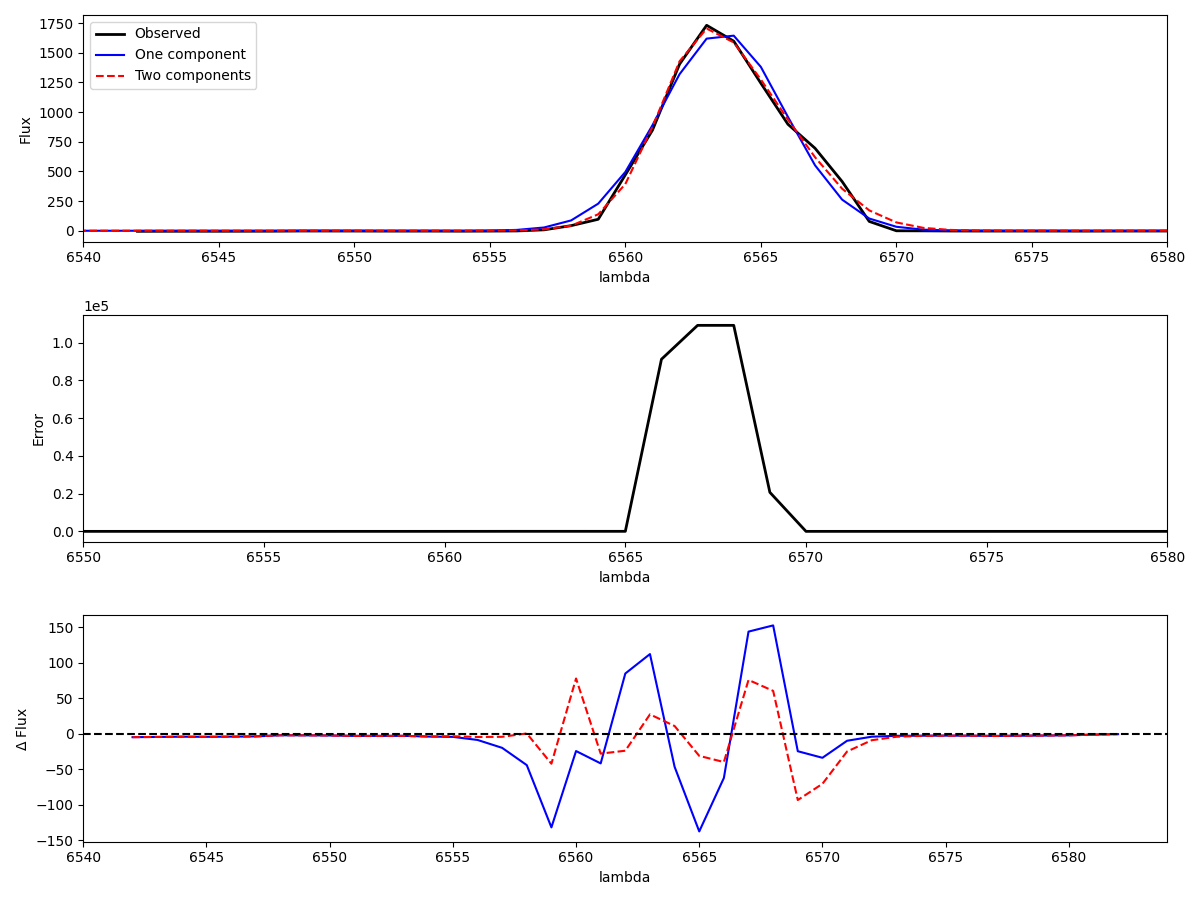
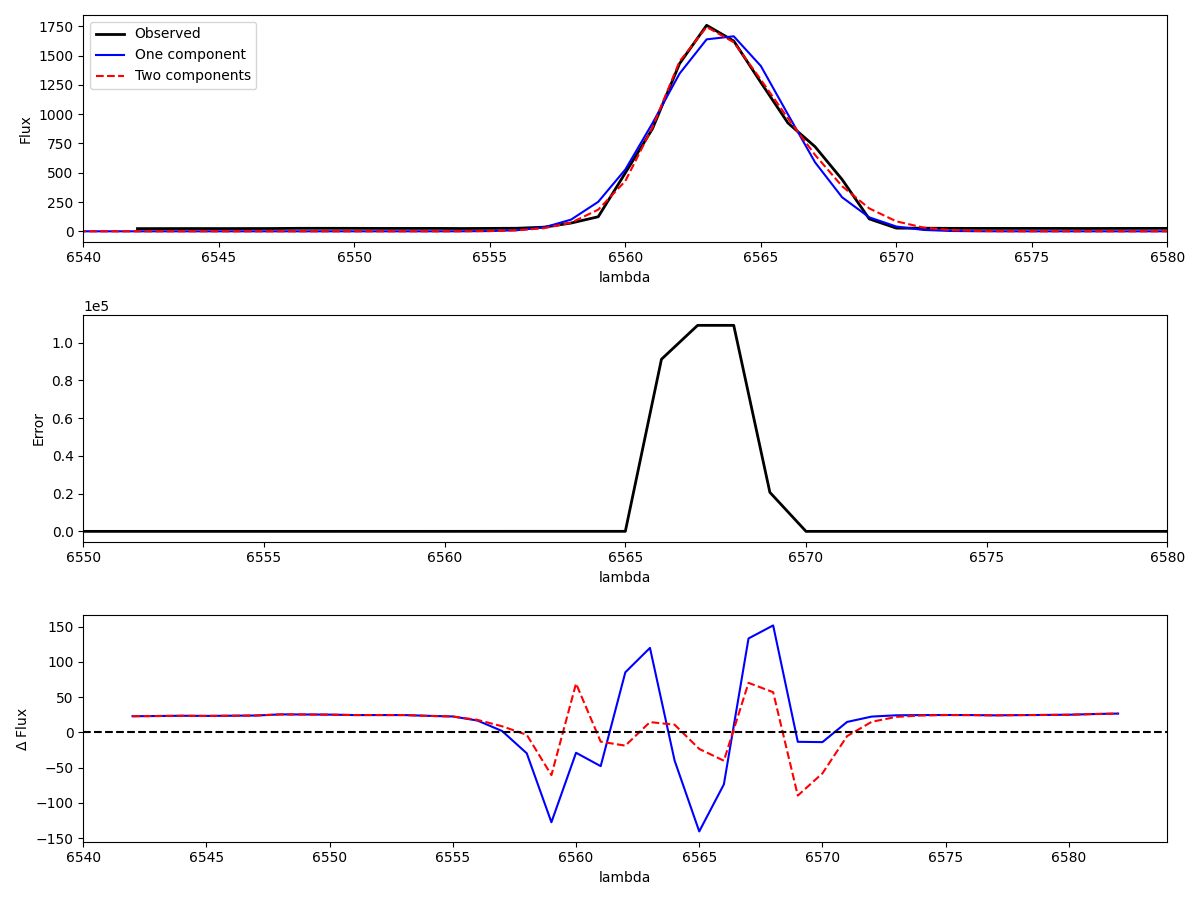
using R

diff --git a/fit_gaussian_spectrum/script_gregory/analysis/spectral_analysis.py b/fit_gaussian_spectrum/script_gregory/analysis/spectral_analysis.py
@@ -1,51 +1,113 @@
 import numpy as np
-from scipy.optimize import minimize
-import statsmodels.api as sm
+from scipy.interpolate import UnivariateSpline
+import rpy2.robjects as robjects
+from rpy2.robjects.packages import importr
+from rpy2.robjects.vectors import FloatVector, ListVector
+
 
 class SpectralAnalysis:
-    def __init__(self, lambda_, flux, err, error_original):
+    def __init__(self, lambda_, flux, err, error_original, norm_cont, l0_line, xx_line):
         self.lam_ex = lambda_
         self.flux_ex = flux
         self.error_ex = err
         self.error_original = error_original
-        self.norm_cont = True
-        self.l0_line = 6562
-
-    def single_gauss(self, params):
-        l0, s0, F0 = params
-        model_line = F0 * np.exp(-(self.lam_ex - l0)**2 / (2 * s0**2)) / np.sqrt(2 * np.pi * s0**2)
-        ln_p_i = -np.log(np.sqrt(2 * np.pi) * self.error_ex) - (self.flux_ex - model_line)**2 / (2 * self.error_ex**2)
-        lnlike = -np.sum(ln_p_i)
-        
-        return lnlike
-
-    def two_gauss(self, params):
-        l0_1, s0_1, F0_1, l0_2, s0_2, F0_2 = params
-        line_1 = F0_1 * np.exp(-(self.lam_ex - l0_1)**2 / (2 * s0_1**2)) / np.sqrt(2 * np.pi * s0_1**2)
-        line_2 = F0_2 * np.exp(-(self.lam_ex - l0_2)**2 / (2 * s0_2**2)) / np.sqrt(2 * np.pi * s0_2**2)
-        model_line = line_1 + line_2
-        ln_p_i = -np.log(np.sqrt(2 * np.pi) * self.error_ex) - (self.flux_ex - model_line)**2 / (2 * self.error_ex**2)
-        lnlike = -np.sum(ln_p_i)
-        
-        return lnlike
+        self.norm_cont = norm_cont
+        self.l0_line = l0_line
+        self.xx_line = xx_line
 
     def fit_cont(self, nsig_up=20, nsig_low=2, degree=3, span=0.05, Nit=20):
         x1_temp = self.lam_ex
         x2_temp = self.flux_ex
 
         for _ in range(Nit):
-            temp = np.polyfit(x1_temp, x2_temp, degree)
-            model_line = np.polyval(temp, x1_temp)
-            xx_temp1 = (x2_temp - model_line) <= nsig_up * np.std(x2_temp - model_line) 
-            xx_temp2 = np.abs(x2_temp - model_line) <= nsig_low * np.std(x2_temp - model_line)
+            spline = UnivariateSpline(x1_temp, x2_temp, k=degree, s=span*len(x1_temp))
+            model_line = spline(x1_temp)
+            diff = x2_temp - model_line
+            xx_temp1 = (diff <= nsig_up * np.std(diff)) & (diff >= 0)
+            xx_temp2 = (np.abs(diff) <= nsig_low * np.std(diff)) & (diff < 0)
             xx_temp = xx_temp1 | xx_temp2
             x1_temp = x1_temp[xx_temp]
             x2_temp = x2_temp[xx_temp]
-
-        temp = np.polyfit(x1_temp, x2_temp, degree)
+            
+        final_spline = UnivariateSpline(x1_temp, x2_temp, k=degree, s=span*len(x1_temp))
         
-        return temp
+        return final_spline
 
+    def run_analysis(self):
+        bbmle = importr('bbmle')
+        robjects.r('''
+        single_gauss <- function(l0, s0, F0, lambda, flux, err) {
+            model_line <- F0 * exp(-(lambda - l0)^2 / (2 * s0^2)) / sqrt(2 * pi * s0^2)
+            ln_p_i <- -log(sqrt(2 * pi) * err) - (flux - model_line)^2 / (2 * err^2)
+            lnlike <- -sum(ln_p_i)
+            return(lnlike)
+        }
+        
+        two_gauss <- function(l0_1, s0_1, F0_1, l0_2, s0_2, F0_2, lambda, flux, err) {
+            line_1 <- F0_1 * exp(-(lambda - l0_1)^2 / (2 * s0_1^2)) / sqrt(2 * pi * s0_1^2)
+            line_2 <- F0_2 * exp(-(lambda - l0_2)^2 / (2 * s0_2^2)) / sqrt(2 * pi * s0_2^2)
+            model_line <- line_1 + line_2
+            ln_p_i <- -log(sqrt(2 * pi) * err) - (flux - model_line)^2 / (2 * err^2)
+            lnlike <- -sum(ln_p_i)
+            return(lnlike)
+        }
+        ''')
+
+        lambda_r = FloatVector(self.lam_ex[self.xx_line])
+        flux_r = FloatVector(self.flux_ex[self.xx_line])
+        error_r = FloatVector(self.error_ex[self.xx_line])
+
+        start_params_single = ListVector({'l0': self.l0_line, 's0': 2, 'F0': 4500})
+        lower_bounds_single = ListVector({'l0': self.l0_line - 10, 's0': 1, 'F0': 5})
+        upper_bounds_single = ListVector({'l0': self.l0_line + 10, 's0': 8, 'F0': 1e4})
+
+        mle_result_single = bbmle.mle2(robjects.r['single_gauss'],
+                                       start=start_params_single,
+                                       data=ListVector({'lambda': lambda_r, 'flux': flux_r, 'err': error_r}),
+                                       method="L-BFGS-B",
+                                       skip_hessian = True,
+                                       lower=lower_bounds_single,
+                                       upper=upper_bounds_single,
+                                       control=ListVector({'maxit': 1e5}))
+
+        tt_single = robjects.r['coef'](mle_result_single)
+        self.l0_bin, self.s0_bin, self.F0_bin = tt_single[0], tt_single[1], tt_single[2]
+        self.aic_1 = robjects.r['AIC'](mle_result_single)[0]
+        self.bic_1 = robjects.r['BIC'](mle_result_single)[0]
+
+        print("Single Component Results:")
+        print("BIC =", self.bic_1, "AIC =", self.aic_1)
+        print("l0 =", self.l0_bin, "s0 =", self.s0_bin, "F0 =", self.F0_bin)
+        
+        start_params_two = ListVector({'l0_1': self.l0_line, 's0_1': 2, 'F0_1': 4500,
+                                    'l0_2': self.l0_line + 10, 's0_2': 3, 'F0_2': 2000})
+        lower_bounds_two = ListVector({'l0_1': self.l0_line - 20, 's0_1': 1, 'F0_1': 5,
+                                    'l0_2': self.l0_line - 10, 's0_2': 1, 'F0_2': 5})
+        upper_bounds_two = ListVector({'l0_1': self.l0_line + 20, 's0_1': 8, 'F0_1': 1e4,
+                                    'l0_2': self.l0_line + 10, 's0_2': 10, 'F0_2': 5e3})
+
+        mle_result_two = bbmle.mle2(robjects.r['two_gauss'],
+                                    start=start_params_two,
+                                    data=ListVector({'lambda': lambda_r, 'flux': flux_r, 'err': error_r}),
+                                    method="L-BFGS-B",
+                                    skip_hessian = True,
+                                    lower=lower_bounds_two,
+                                    upper=upper_bounds_two,
+                                    control=ListVector({'maxit': 1e8}))
+
+        tt_two = robjects.r['coef'](mle_result_two)
+        (self.l0_1_bin, self.s0_1_bin, self.F0_1_bin,
+        self.l0_2_bin, self.s0_2_bin, self.F0_2_bin) = tt_two
+        self.aic_2 = robjects.r['AIC'](mle_result_two)[0]
+        self.bic_2 = robjects.r['BIC'](mle_result_two)[0]
+
+        print("\nTwo Components Results:")
+        print("BIC =", self.bic_2, "AIC =", self.aic_2)
+        print("l0_1 =", self.l0_1_bin, "s0_1 =", self.s0_1_bin, "F0_1 =", self.F0_1_bin)
+        print("l0_2 =", self.l0_2_bin, "s0_2 =", self.s0_2_bin, "F0_2 =", self.F0_2_bin)
+
+# Código feito anteriormente   
+"""
     def run_analysis(self):
         if self.norm_cont:
             temp = self.fit_cont(self.lam_ex, self.flux_ex)
@@ -88,3 +150,4 @@ class SpectralAnalysis:
         aic = - 2 * llf + 2 * (k + 1)
         
         return aic
+"""

diff --git a/fit_gaussian_spectrum/script_gregory/analysis/spectral_analysis_plotter.py b/fit_gaussian_spectrum/script_gregory/analysis/spectral_analysis_plotter.py
@@ -13,12 +13,12 @@ class Plotter:
         plt.subplot(3, 1, 1)
         plt.plot(self.analyzer.lam_ex[self.xx_line], self.analyzer.flux_ex[self.xx_line], 'k-', lw=2)
         
-        self.model_line = self.analyzer.F0_bin * np.exp(-((self.analyzer.lam_ex - self.analyzer.l0_bin)**2) / (2 * self.analyzer.s0_bin**2)) / np.sqrt(2 * np.pi * self.analyzer.s0_bin**2)
+        self.model_line = self.analyzer.F0_bin * np.exp(-(self.analyzer.lam_ex - self.analyzer.l0_bin)**2 / (2 * self.analyzer.s0_bin**2)) / np.sqrt(2 * np.pi * self.analyzer.s0_bin**2)
         
         plt.plot(self.analyzer.lam_ex, self.model_line, 'b-')
             
         self.model_line_2 = self.analyzer.F0_1_bin * np.exp(-((self.analyzer.lam_ex - self.analyzer.l0_1_bin)**2) / (2 * self.analyzer.s0_1_bin**2)) / np.sqrt(2 * np.pi * self.analyzer.s0_1_bin**2) + \
-                       self.analyzer.F0_2_bin * np.exp(-((self.analyzer.lam_ex - self.analyzer.l0_2_bin)**2) / (2 * self.analyzer.s0_2_bin**2)) / np.sqrt(2 * np.pi * self.analyzer.s0_2_bin**2)
+                       self.analyzer.F0_2_bin * np.exp(-(self.analyzer.lam_ex - self.analyzer.l0_2_bin)**2 / (2 * self.analyzer.s0_2_bin**2)) / np.sqrt(2 * np.pi * self.analyzer.s0_2_bin**2)
         
         plt.plot(self.analyzer.lam_ex, self.model_line_2, 'r--')
         plt.xlim([6540, 6580])

diff --git a/fit_gaussian_spectrum/Script_Gregory/main.py b/fit_gaussian_spectrum/Script_Gregory/main.py
@@ -15,16 +15,18 @@ def get_path(cxt_filename):
 def main():
     spectrum_cxt = '0555-52266-0558'
     cxt_file, png_file = get_path(spectrum_cxt)
-    ex_gal = pd.read_csv(cxt_file, delim_whitespace=True, header=None)
+    ex_gal = pd.read_csv(cxt_file, sep='\s+', header=None)
     lam_ex = ex_gal[0][ex_gal[1] > 0].values
     flux_ex = ex_gal[1][ex_gal[1] > 0].values
     error_original = ex_gal[2][ex_gal[1] > 0].values
+    norm_count = True
     error_ex = np.ones_like(flux_ex)
+    l0_line = 6562
+    xx_line = (lam_ex >= l0_line - 20) & (lam_ex <= l0_line + 20)
 
-    analyzer = SpectralAnalysis(lam_ex, flux_ex, error_ex, error_original)
+    analyzer = SpectralAnalysis(lam_ex, flux_ex, error_ex, error_original, norm_count, l0_line, xx_line)
     analyzer.run_analysis()
 
-    xx_line = (analyzer.lam_ex >= analyzer.l0_line - 20) & (analyzer.lam_ex <= analyzer.l0_line + 20)
     plotter = Plotter(analyzer, xx_line)
     plotter.save_plots(png_file)
 
